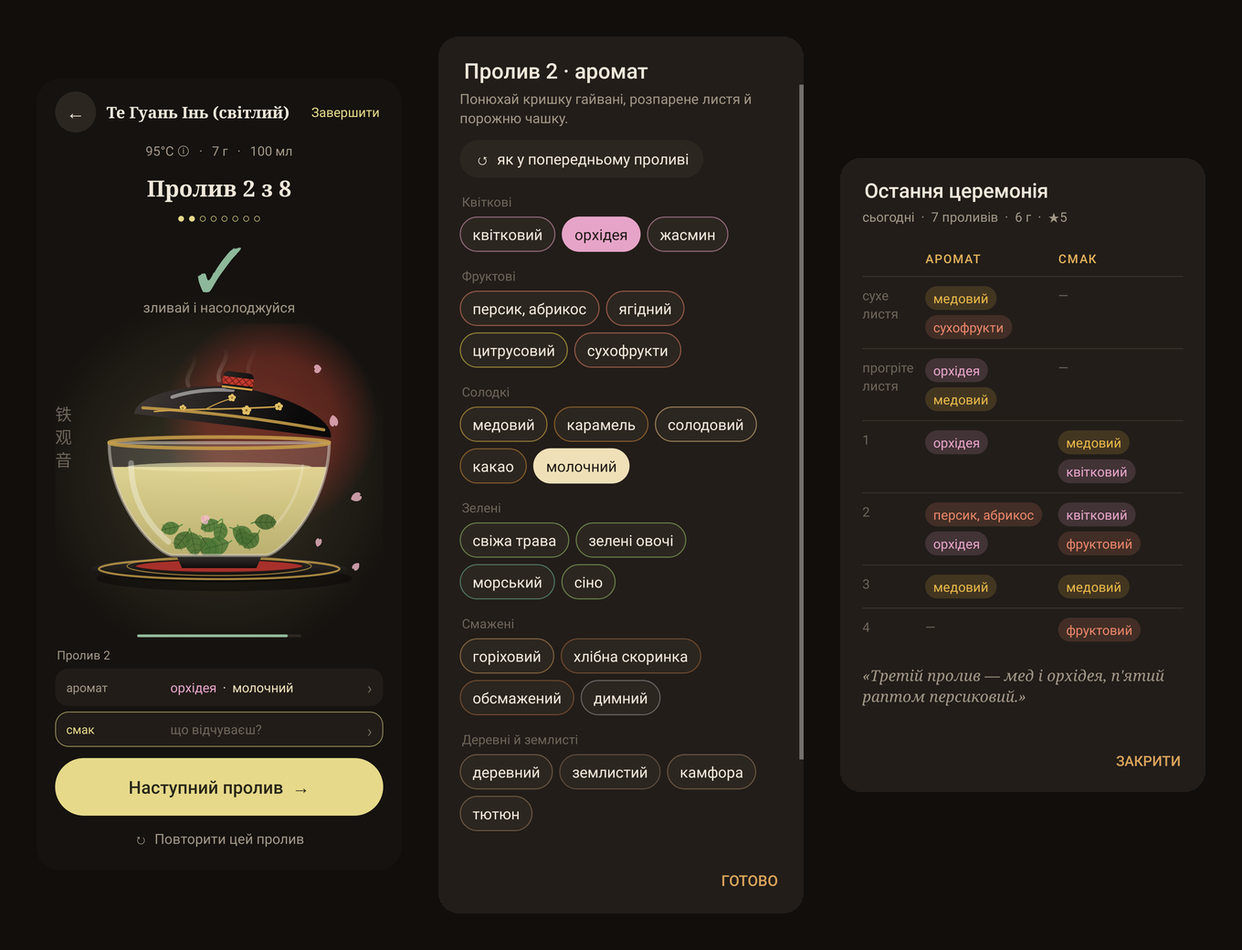
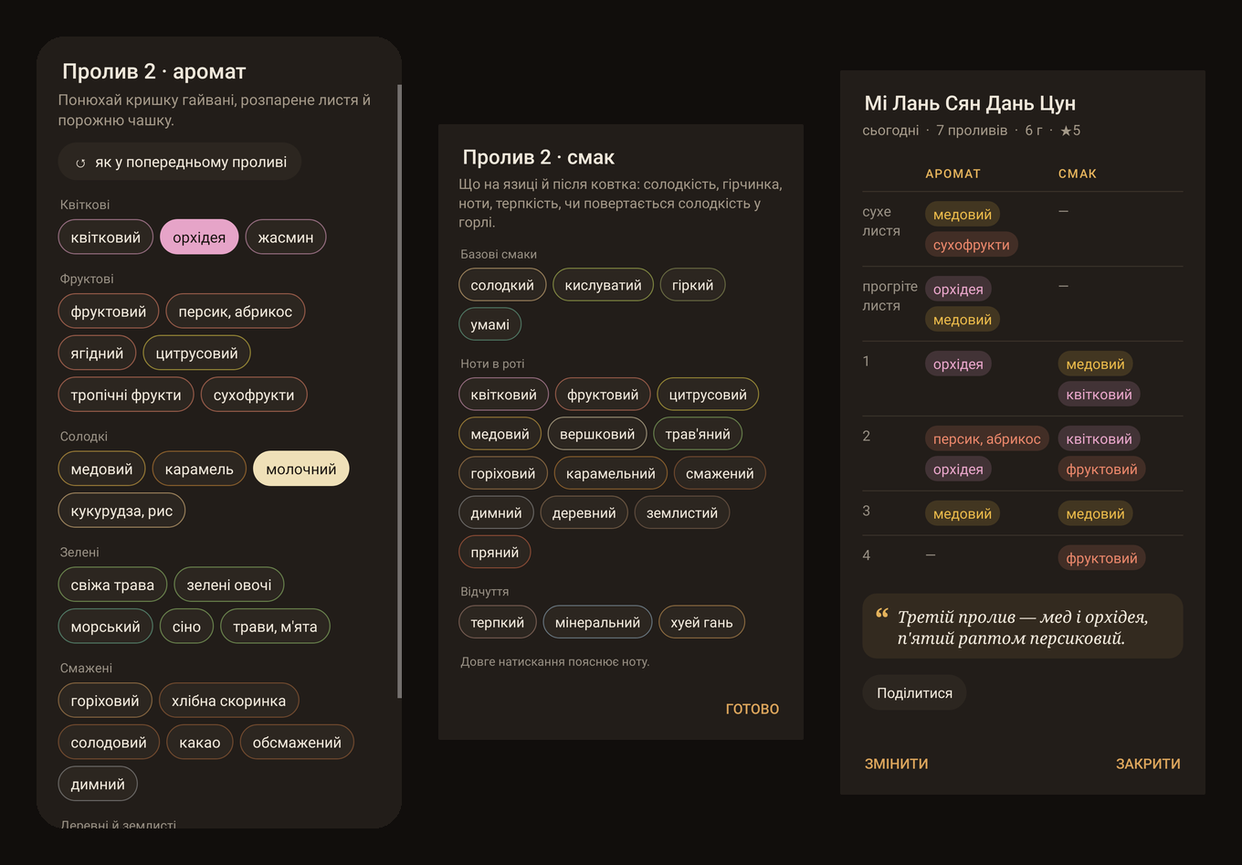
Сторінка версії 3.3: пошук, журнал і порівняння, тренування носа, нові налаштування, свіжі знімки
Claude-Session: https://claude.ai/code/session_01QuUCzYTpaFqhRFKmCnqgtD

diff --git a/README.md b/README.md
@@ -14,13 +14,17 @@
 
 <img src="images/screens.png" alt="Екрани програми: Сьогодні, каталог, сторінка чаю, церемонія" width="100%">
 
+## Що нового в 3.3
+
+Програма стала спокійнішою. Налаштування тепер короткий список із чотирьох груп, а «Сьогодні» показує лише головне: чай дня, останню церемонію і що спробувати далі. Приказка дня стоїть одним рядком під привітанням, із джерелом. Усі зміни описані на [сторінці версії](https://github.com/golftennis3/gongfu-cha-releases/releases/latest).
+
 ## Таймер-гайвань
 
 <img src="images/timer.png" alt="Таймер у вигляді гайвані: заливаєш воду, чай настоюється, зливаєш настій" width="100%">
 
 Замість цифр — гайвань, яка повільно наповнюється настоєм: листя розкривається, з'являється пара, кришка піднімається, коли час зливати. Для кожного проливу свій час із рецепта. Між проливами — коротка пауза на три вдихи. Коли настій готовий, лунає звук: співоча чаша, дзвіночок, гонг, дерев'яна рибка або дзвоники вітру.
 
-Поки чай настоюється, відлік видно й у шторці сповіщень та на заблокованому екрані, з кнопкою «Злити».
+За три секунди до сигналу звучить тихе «ток-ток-ток» і, якщо хочеш, легка вібрація: встигаєш узяти гайвань. Поки чай настоюється, відлік видно й у шторці сповіщень та на заблокованому екрані, з кнопкою «Злити». Можна ввімкнути маленьке нагадування закрити термос, коли заливаєш воду.
 
 <img src="images/rolled.png" alt="Те Гуань Інь у гайвані: кульки поступово розкриваються від промивки до третього проливу" width="100%">
 
@@ -30,7 +34,7 @@
 
 <img src="images/gaiwans.png" alt="Шість стилів гайвані: Класика, Бусідо, Ваби-сабі, Цінхуа, Селадон, Ісін" width="100%">
 
-Класика з білої порцеляни із золотом, Бусідо з чорного лаку з золотою гілкою сакури, Ваби-сабі з сірого раку з тріщиною кінцуґі, синьо-біла Цінхуа, нефритовий Селадон і пурпурова ісинська глина. Вибрати можна в налаштуваннях або просто під час церемонії — довгим натисканням на гайвань.
+Класика з білої порцеляни із золотом, Бусідо з чорного лаку з золотою гілкою сакури, Ваби-сабі з сірого раку з тріщиною кінцуґі, синьо-біла Цінхуа, нефритовий Селадон і пурпурова ісинська глина. Вибрати можна в налаштуваннях («Тема й кольори») або просто під час церемонії — довгим натисканням на гайвань.
 
 ## 149 чаїв
 
@@ -41,9 +45,15 @@
 - аромат, смак і традиційно описаний ефект;
 - ієрогліфи, піньїнь, регіон і що означає назва («Великий червоний халат», «Залізна богиня милосердя»).
 
-Сторінка чаю читається згори донизу: «Почати церемонію» з рецептом, далі «Який він» — опис, фото, колір настою, аромат і смак, потім «Моє» — твоя оцінка, нотатки, запас і що ти в цьому чаї знаходиш. Незрозумілі слова в описах (хуей гань, ча ці, янь юнь, окислення…) підкреслені: натисни — і з'явиться пояснення.
+Сторінка чаю читається згори донизу: «Почати церемонію» з рецептом, далі «Про чай» — опис, фото, колір настою за проливами, аромат, смак і ефект, потім «Моє» — твоя оцінка, нотатки, запас і що ти в цьому чаї знаходиш. Незрозумілі слова в описах (хуей гань, ча ці, янь юнь, окислення…) підкреслені: натисни — і з'явиться пояснення.
 
-Можна додати власний чай.
+Можна додати власний чай і самому обрати, як він виглядає: форму листя (голки, кульки, перлини, пласке, золоті бруньки, млинець, цеглина, мандарин…), колір сухого листя й колір настою. Змінити це можна й потім.
+
+## Пошук
+
+<img src="images/search.png" alt="Пошук «вугілля»: чаї з цією нотою і окремо ті, де слово згадується в описі; свій чай і вибір його вигляду" width="100%">
+
+Шукай так, як говориш: «османтус», «мед», «копчений», «вугілля». Пошук розуміє синоніми й різні форми слова, пробачає одну помилку і показує, чому чай знайшовся: збіг у назві, у нотах чи в описі. Чаї, де слово лише згадується в описі, зібрані окремо внизу, щоб не заважати.
 
 ## Справжні фото
 
@@ -55,13 +65,34 @@
 
 ## Аромат і смак
 
-<img src="images/aroma.png" alt="Під час церемонії: рядки «аромат» і «смак», вибір нот за групами і таблиця останньої церемонії" width="100%">
+<img src="images/aroma.png" alt="Під час церемонії: вибір нот аромату й смаку за групами і таблиця церемонії по проливах" width="100%">
 
 - Аромат записується в три моменти: **сухе листя**, **прогріте листя** в гарячому гайвані й **заварене** після кожного проливу. Смак — після кожного проливу.
 - Для аромату свій, тонший набір нот (орхідея, персик, солод, камфора, мокрий камінь…), розкладений за групами, — бо язик розрізняє лише кілька смаків, а ніс сотні нот. Довге натискання на ноту пояснює її.
-- Журнал зберігає кожну церемонію: чай, проливи, грами, оцінку, нотатку, а остання церемонія відкривається таблицею — аромат і смак по проливах.
-- Статистика за місяць, улюблені аромати й смаки, рекомендації «що спробувати далі» й схожі чаї.
+- Рекомендації «що спробувати далі» за твоїм смаком і схожі чаї на сторінці кожного чаю.
 - Полиця з запасом у грамах (списується після церемонії) і список «Хочу спробувати».
+
+## Журнал
+
+<img src="images/journal.png" alt="Журнал по днях, порівняння двох церемоній Шу Пуеру і картка церемонії, щоб поділитися" width="100%">
+
+- Журнал зібраний по днях: чай, проливи, оцінка, ноти й нотатка. Кожна церемонія відкривається таблицею — аромат і смак по проливах.
+- **Порівняння**: дві церемонії одного чаю поруч, пролив за проливом, і підсумок — що відчув обидва рази, а що лише одного.
+- **Картка церемонії**: гарна картинка з чаєм, нотами й нотаткою, щоб надіслати другові.
+- Статистика за місяць, рік або весь час: скільки церемоній і грамів чаю, улюблені види, аромати й смаки, коли ти п'єш чай.
+
+## Тренування носа
+
+<img src="images/nose.png" alt="Тренування носа: скільки нот відчув сам, картка ноти «камфора» з підказками, вправа «Яку ноту описано?»" width="100%">
+
+Необов'язкове тренування, щоб розрізняти ноти впевнено. Без нагадувань і серій — коли захочеш.
+- 32 ноти за групами. Нота вважається твоєю, коли ти тричі відчув її сам у чаї, де вона є в описі.
+- Для кожної ноти: як її описують, як упізнати вдома (камфорна олія, кориця, мед…), у яких чаях шукати і з чим її плутають.
+- Перед церемонією — тихий рядок «Зазвичай шукають: …», після — що з твоїх нот збіглося з описом.
+- Вправа на 2 хвилини: «Яку ноту описано?», з нот, які ти вчиш, і з чаїв на твоїй полиці.
+
+Вмикається в налаштуваннях («Ніс»).
+
 
 ## Чайний посуд
 
@@ -75,24 +106,32 @@
 
 Вечірня чайна, Рисовий папір, Нефрит, Ісинська глина, Синя порцеляна — або свій колір акценту. Можна ввімкнути «акцент — колір чаю»: сторінка кожного чаю набуває кольору його настою. І автоматичне перемикання: світла тема вдень, темна ввечері.
 
+## Налаштування
+
+<img src="images/settings.png" alt="Налаштування: чотири групи — Церемонія, Вигляд, Ніс, Дані; сторінки «Сигнал» і «Тема й кольори»" width="100%">
+
+Короткий список: посуд, сигнал, термос, режим проби, тема, мова, тренування носа і резервна копія. У кожному рядку видно, що зараз обрано, а деталі відкриваються тапом.
+
 ## І ще
 
+- **Приказка дня** — справжні рядки про чай від Лу Юя, Лу Туна, Су Ші, чаньських майстрів, з ієрогліфами, читанням і джерелом.
 - **Вода без термометра** — як на око визначити потрібну температуру за бульбашками.
 - **Де купити** — пропозиції в наявності з Prom.ua, відсортовані за ціною за 100 г, і спеціалізовані українські чайні магазини.
 - **Українська та англійська** — мову можна змінити в будь-який момент.
-- **Резервна копія** — увесь журнал і полиця в одному файлі.
+- **Режим проби** — заварити, нічого не записуючи.
+- **Резервна копія** — полиця, нотатки, журнал, свої чаї, налаштування й усі фото в одному файлі. Відновлюються й старі копії.
 
 ## Встановлення
 
 1. Відкрий [останню версію](https://github.com/golftennis3/gongfu-cha-releases/releases/latest) з телефона й завантаж файл **GongfuCha-….apk**.
 2. Відкрий його. Android попередить, що програма не з Google Play, — дозволь встановлення з цього джерела.
-3. Готово. Далі **оновлення приходять самі**: коли виходить нова версія, у програмі з'явиться тихий рядок «Доступна версія…», одне натискання — і вона встановиться поверх, зі збереженням усіх даних. Перевірити вручну — кнопка «Перевірити» на самому верху налаштувань (⚙ на екрані «Сьогодні»).
+3. Готово. Далі **оновлення приходять самі**: коли виходить нова версія, у програмі з'явиться тихий рядок «Доступна версія…», одне натискання — і вона встановиться поверх, зі збереженням усіх даних. Перевірити вручну — «перевірити оновлення» внизу налаштувань (⚙ на екрані «Сьогодні»).
 
 Потрібен Android 8.0 або новіший.
 
 ## Приватність
 
-Усе зберігається тільки на твоєму телефоні: жодних акаунтів, аналітики чи реклами. Твої власні фото теж нікуди не завантажуються. В інтернет програма звертається лише тоді, коли ти відкриваєш «Де купити» (пошук на Prom.ua), і щоб узяти з цього репозиторію на GitHub нову версію та фото чаїв.
+Усе зберігається тільки на твоєму телефоні: жодних акаунтів, аналітики чи реклами. Твої власні фото теж нікуди не завантажуються, а картка церемонії йде лише туди, куди ти сам її надішлеш. В інтернет програма звертається лише тоді, коли ти відкриваєш «Де купити» (пошук на Prom.ua), і щоб узяти з цього репозиторію на GitHub нову версію та фото чаїв.
 
 Описи ефектів — традиційні враження чаювальників, а не медичні поради.
 
@@ -106,17 +145,22 @@
 
 - **Gaiwan timer.** Instead of numbers, a gaiwan slowly fills with tea: the leaves unfurl, steam rises and the lid lifts when it's time to pour. Ball-rolled oolongs and jasmine pearls open gradually, fully by the third infusion. Each infusion has its own time; between infusions, a short pause for three breaths. A singing bowl, bell, gong, wooden fish or wind chimes tells you when it's ready.
 - **Six gaiwan styles** — classic porcelain, bushido black lacquer, wabi-sabi raku with kintsugi, qinghua blue-and-white, celadon and Yixing clay; long-press the gaiwan to switch.
-- **Countdown in the notification shade** and on the lock screen while the tea steeps, with a “Pour” button.
-- **149 teas** — green, white, yellow, oolong, red, pu-erh from different mountains, dark teas, plus Japan, Korea, India and Nepal. Each with a gongfu recipe (temperature, grams, every infusion's time), aroma, taste, traditional effect, hanzi and pinyin. Add your own teas.
+- **Countdown** — a soft tap-tap-tap (and an optional buzz) in the last three seconds, the countdown in the notification shade and on the lock screen with a “Pour” button, and an optional reminder to close the thermos.
+- **149 teas** — green, white, yellow, oolong, red, pu-erh from different mountains, dark teas, plus Japan, Korea, India and Nepal. Each with a gongfu recipe (temperature, grams, every infusion's time), aroma, taste, traditional effect, hanzi and pinyin. Add your own teas and choose how they look: leaf shape, dry leaf colour and liquor colour.
 - **Real photos** — “How it looks” on the tea page: dry leaf, liquor and spent leaves. Photos are added to this repository over time and reach the app by themselves; each shows its author and licence ([photos/README.md](photos/README.md)). Your own photos stay on your phone.
-- **Aroma and taste.** Note the aroma of the dry leaf, the warmed leaf and each infusion, and the taste of each infusion, from notes laid out in families. The journal keeps every ceremony and shows the last one as a table. Monthly stats, recommendations, similar teas, a shelf with stock in grams and a wishlist.
+- **Search** that understands synonyms, word forms and one typo, and says why a tea matched: its name, its notes or its description.
+- **Aroma and taste.** Note the aroma of the dry leaf, the warmed leaf and each infusion, and the taste of each infusion, from notes laid out in families. Recommendations, similar teas, a shelf with stock in grams and a wishlist.
+- **Journal** grouped by day, each ceremony as a table by infusion. Compare two ceremonies of the same tea side by side, share a ceremony as a picture, see your stats by month, year or all time.
+- **Nose training** (optional): 32 notes, how to recognise each at home, which teas to look in, what it gets confused with; a quiet “usually found” line before a ceremony, what matched after it, and a two-minute exercise. No reminders, no streaks.
 - **Glossary.** Terms in the descriptions (hui gan, cha qi, yan yun, oxidation…) are underlined and explained on a tap; a long press explains any note.
 - **Teaware guide** — gaiwan, Yixing, Nixing, Jianshui, Chaozhou, porcelain, glass and kyusu: how each shapes the taste, which teas suit it, how to care for it.
-- **Water without a thermometer**, **where to buy** (in-stock offers from Ukrainian shops, by price per 100 g), **Ukrainian and English**, **backup to a file**.
+- **Saying of the day** — real lines about tea, with the hanzi, the reading and the source.
+- **Water without a thermometer**, **where to buy** (in-stock offers from Ukrainian shops, by price per 100 g), **Ukrainian and English**, **practice mode**, and **backup** of everything, photos included, in one file.
+- **Calm settings** in four short groups: Ceremony, Look, Nose, Data.
 
-**Install:** open the [latest release](https://github.com/golftennis3/gongfu-cha-releases/releases/latest) on your phone, download **GongfuCha-….apk**, open it and allow installing from this source. After that, updates arrive inside the app; to check by hand, tap “Check” at the top of settings. Android 8.0 or newer.
+**Install:** open the [latest release](https://github.com/golftennis3/gongfu-cha-releases/releases/latest) on your phone, download **GongfuCha-….apk**, open it and allow installing from this source. After that, updates arrive inside the app; to check by hand, tap “check for updates” at the bottom of settings. Android 8.0 or newer.
 
-**Privacy:** everything stays on your phone, your own photos included. The app only goes online to look up prices (Prom.ua) when you open “Where to buy”, and to fetch new versions and tea photos from this repository.
+**Privacy:** everything stays on your phone, your own photos included; a ceremony card goes only where you send it. The app only goes online to look up prices (Prom.ua) when you open “Where to buy”, and to fetch new versions and tea photos from this repository.
 
 ---
 
